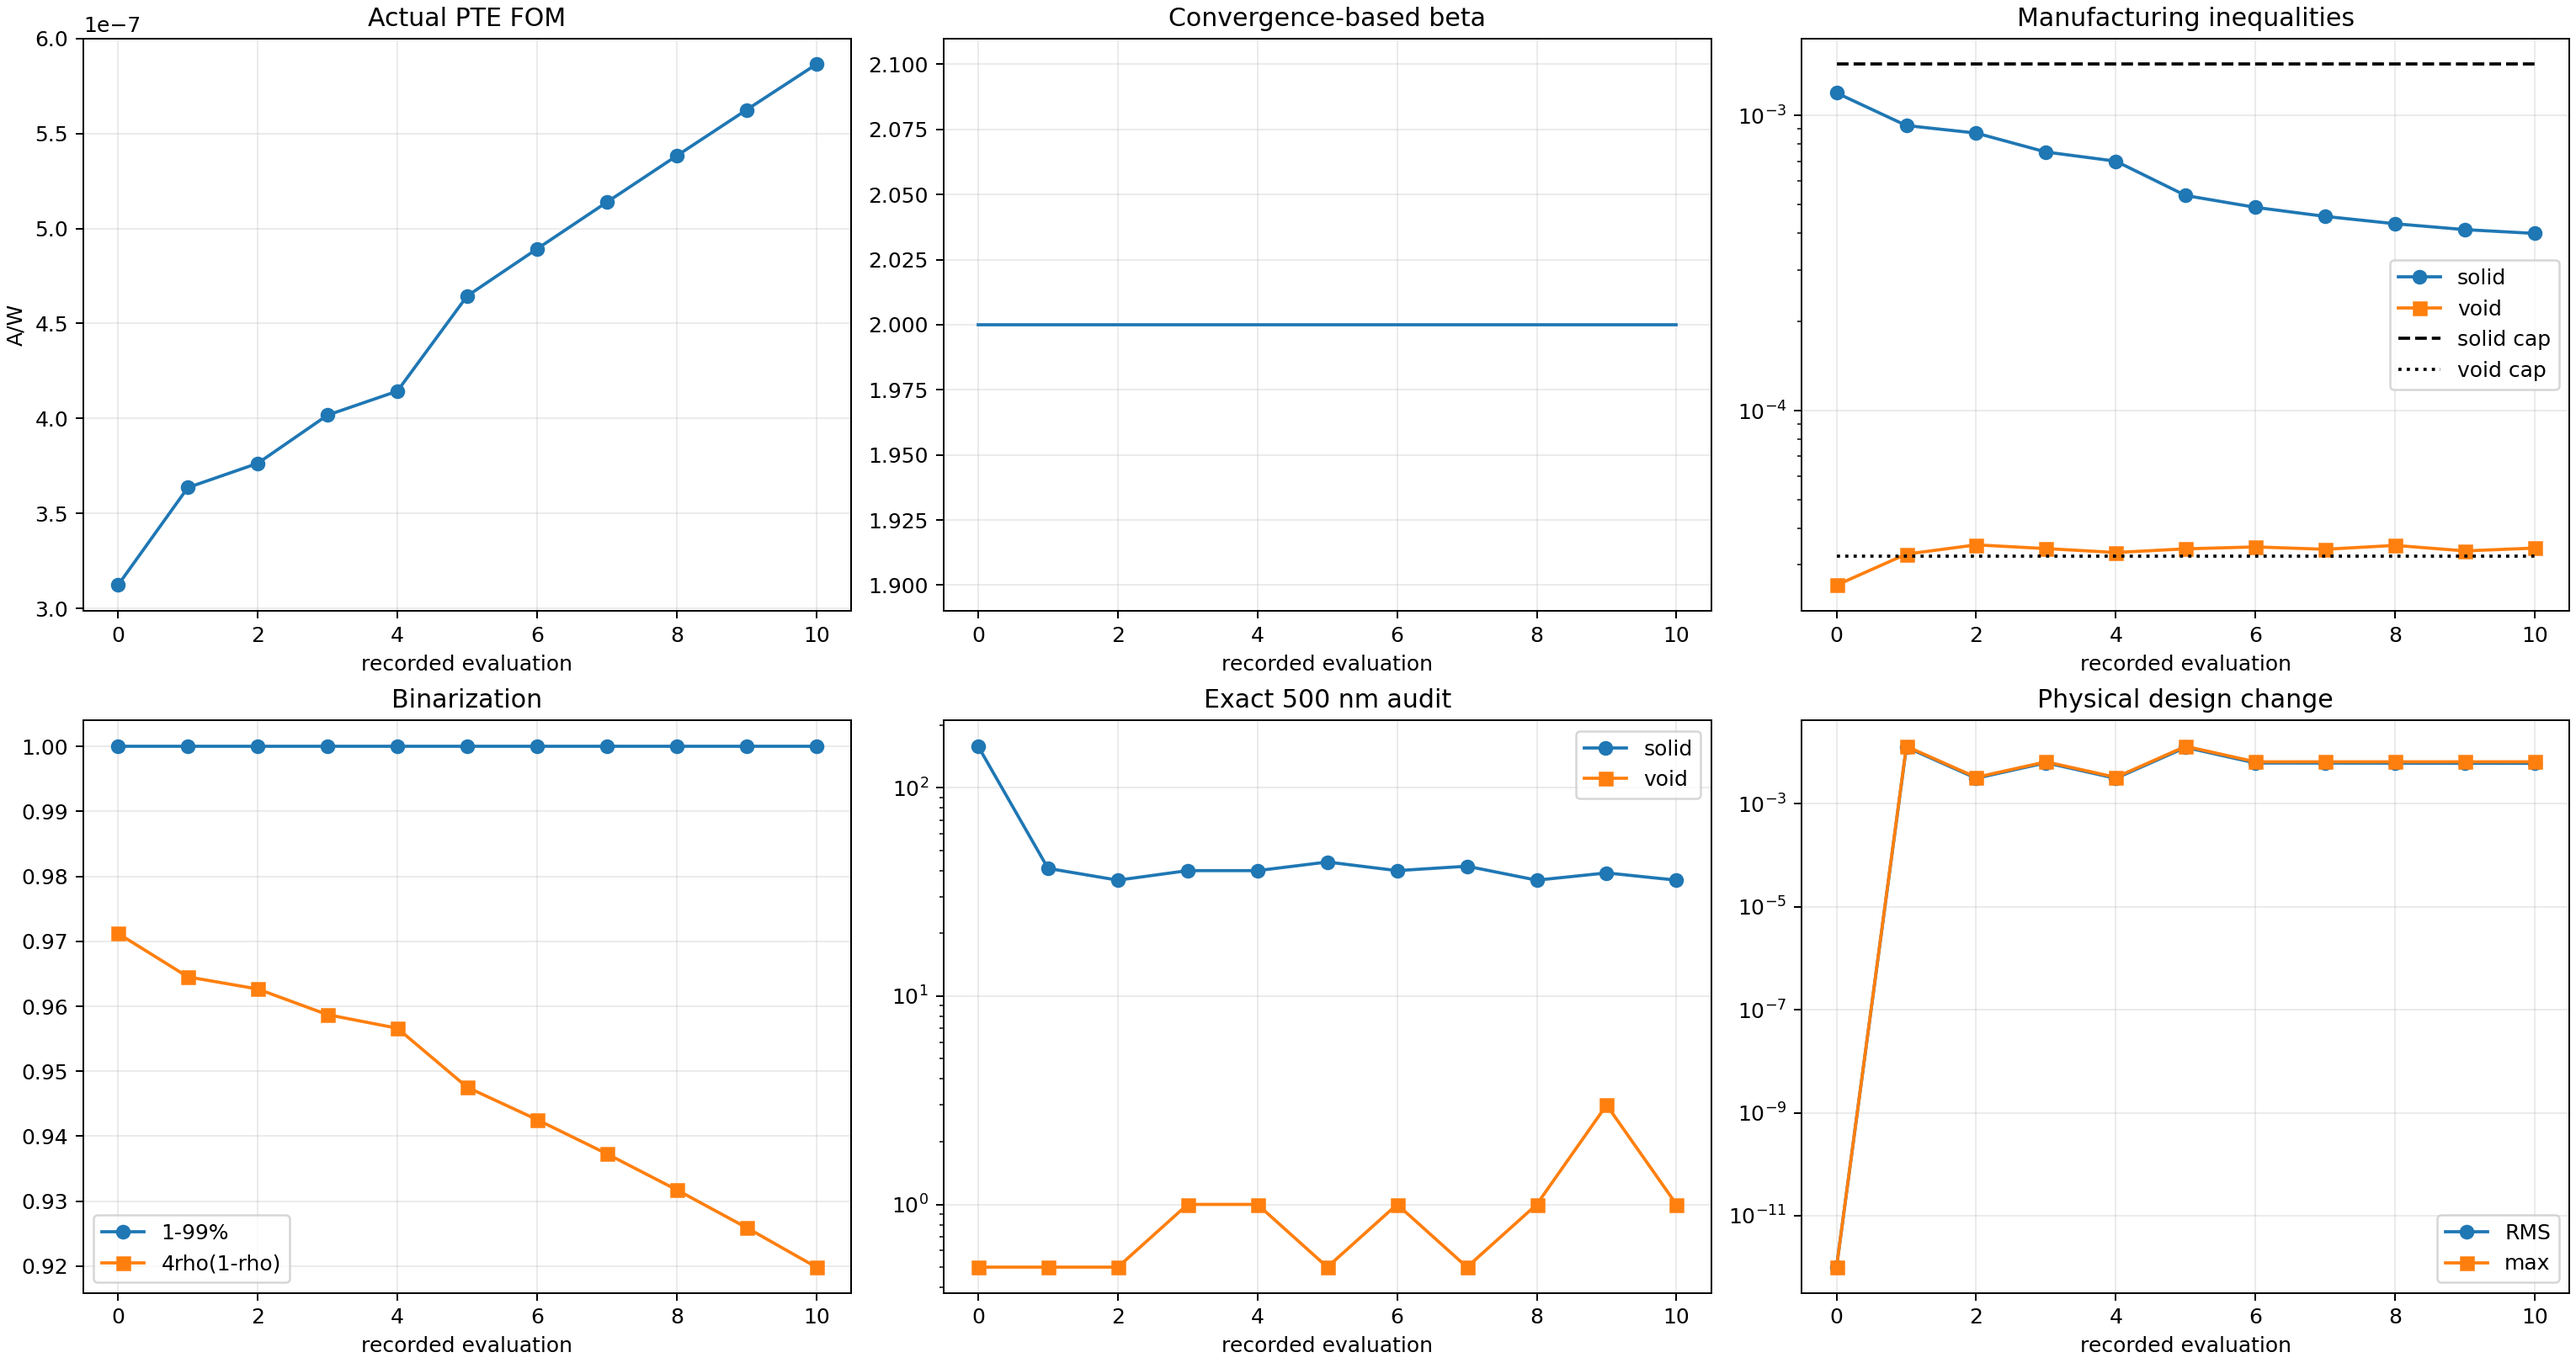
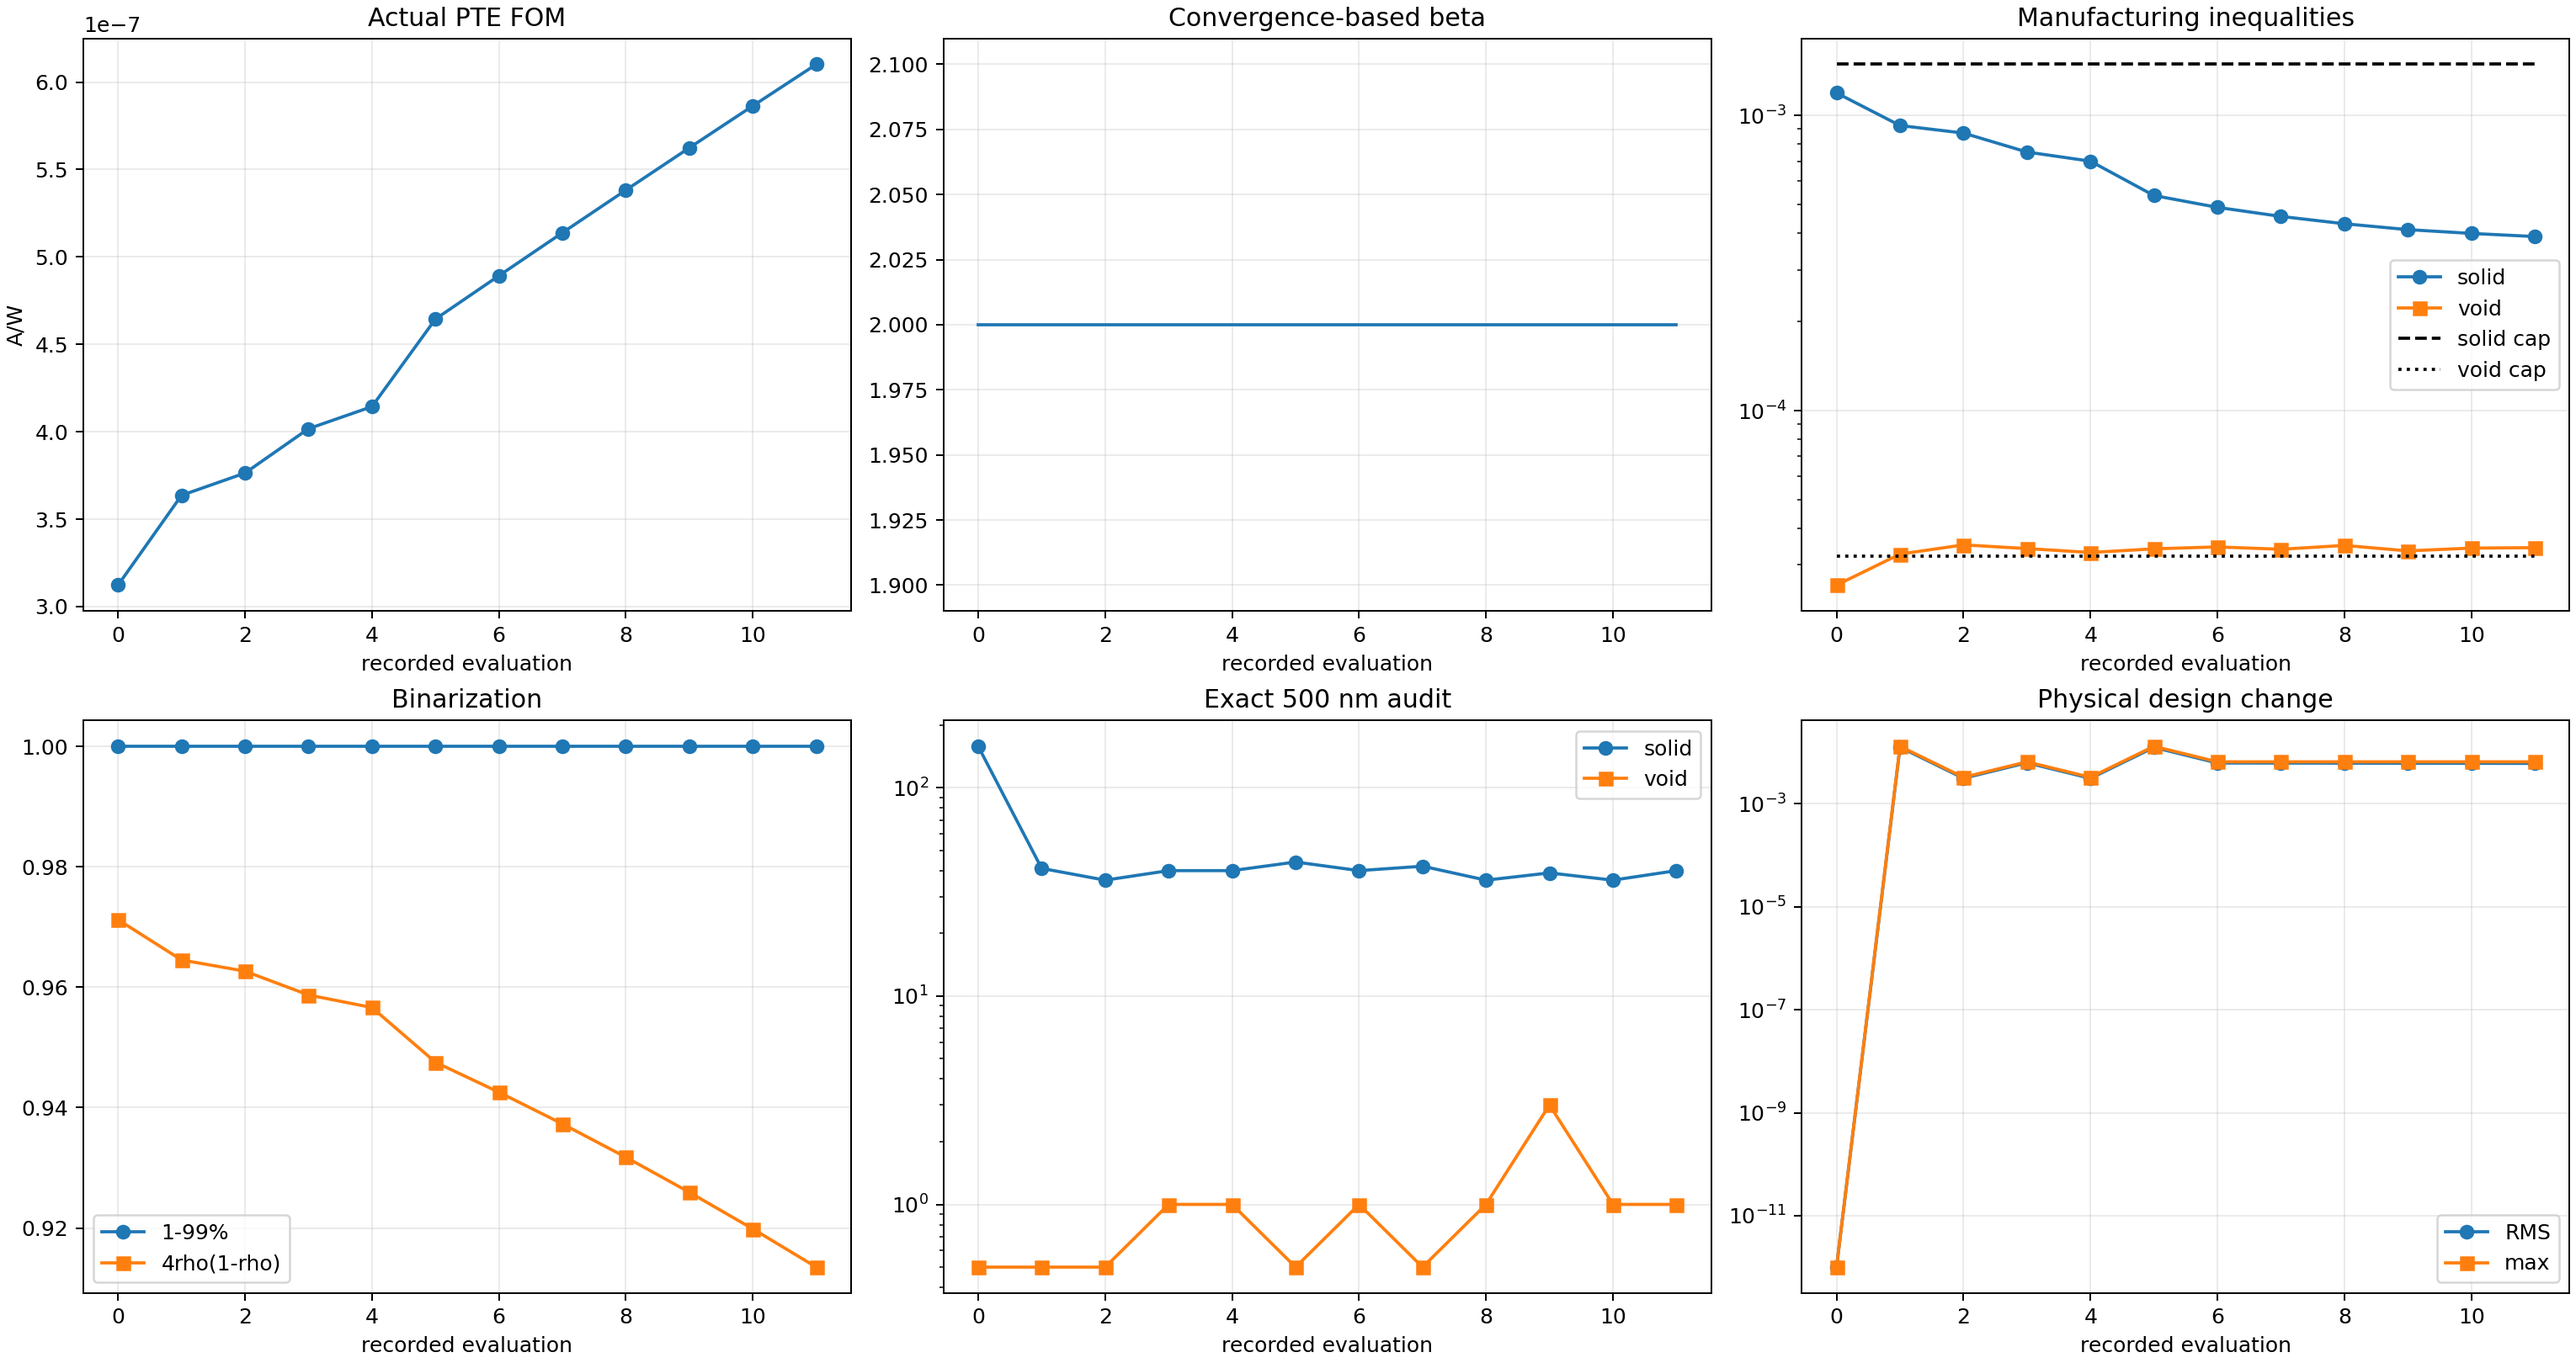
Record Run 005 run008_Ea_b002_s011_g011_accepted_mma

diff --git a/photothermal_pte/optimization_runs/run_008_corrected_Ea_objective_first_constrained/results/OPTIMIZATION_REPORT.md b/photothermal_pte/optimization_runs/run_008_corrected_Ea_objective_first_constrained/results/OPTIMIZATION_REPORT.md
@@ -2,12 +2,12 @@
 
 Status: `RUNNING_CORRECTED_EA_OBJECTIVE_FIRST_CONSTRAINED_OPTIMIZATION`
 
-Current stage: beta=2, accepted stage iteration=10, global iteration=10.
+Current stage: beta=2, accepted stage iteration=11, global iteration=11.
 
 Constraint contract: `soft_disk_opening_500nm_from_iteration_zero_v5`.
 
-Actual FOM: `5.863663877768e-07 A/W`. Fixed-cap solid/void constraints: `3.984274e-04` / `3.422200e-05` with caps `1.490220e-03` / `3.204288e-05`.
+Actual FOM: `6.101403360725e-07 A/W`. Fixed-cap solid/void constraints: `3.888799e-04` / `3.433343e-05` with caps `1.490220e-03` / `3.204288e-05`.
 
-Exact 500 nm bad cells: solid `36`, void `1`. Stage convergence: `False` (fixed solid/void inequalities are not feasible).
+Exact 500 nm bad cells: solid `40`, void `1`. Stage convergence: `False` (fixed solid/void inequalities are not feasible).
 
 Beta advances only after the stage FOM/density plateau. The run is not complete until the projected-binary and exact 500 nm gates pass and a fresh thresholded-binary GPU/CUDA evaluation succeeds.
